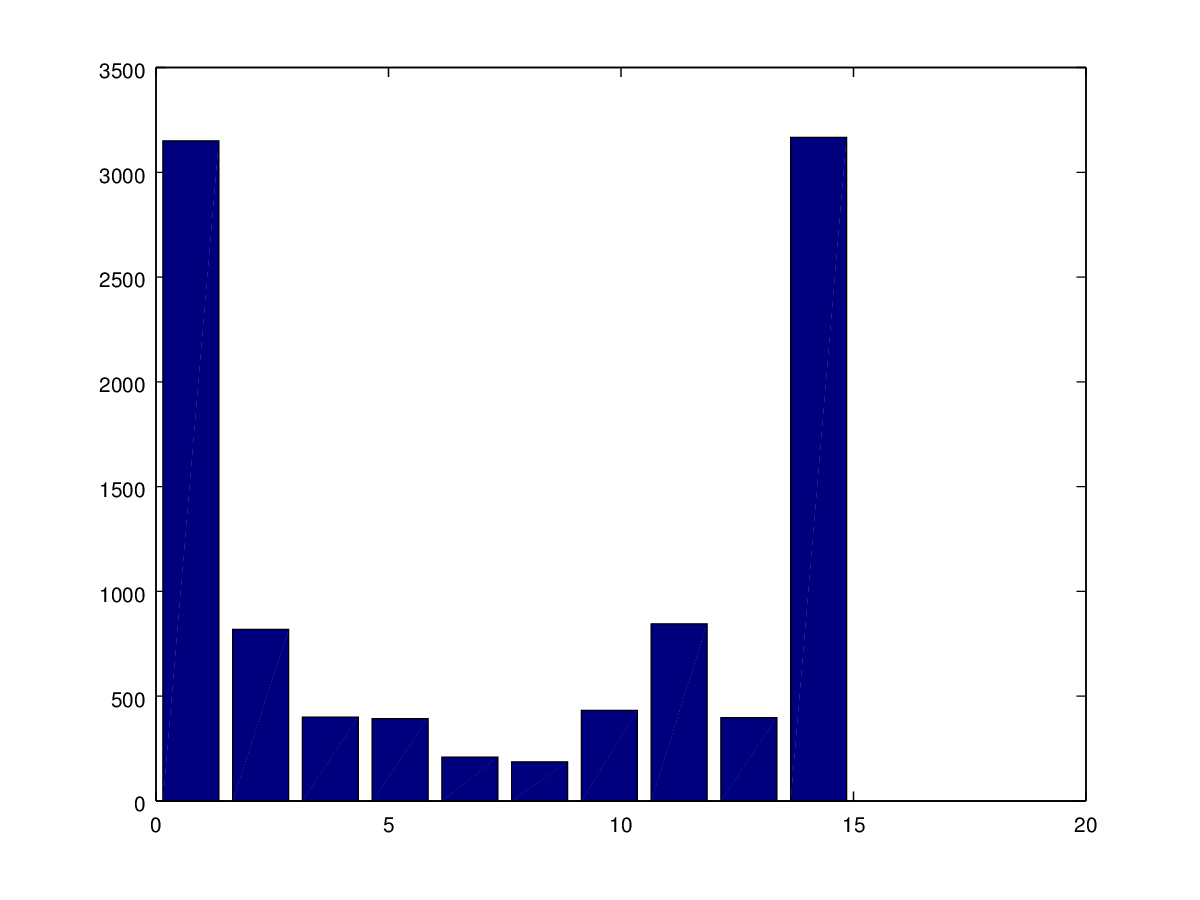
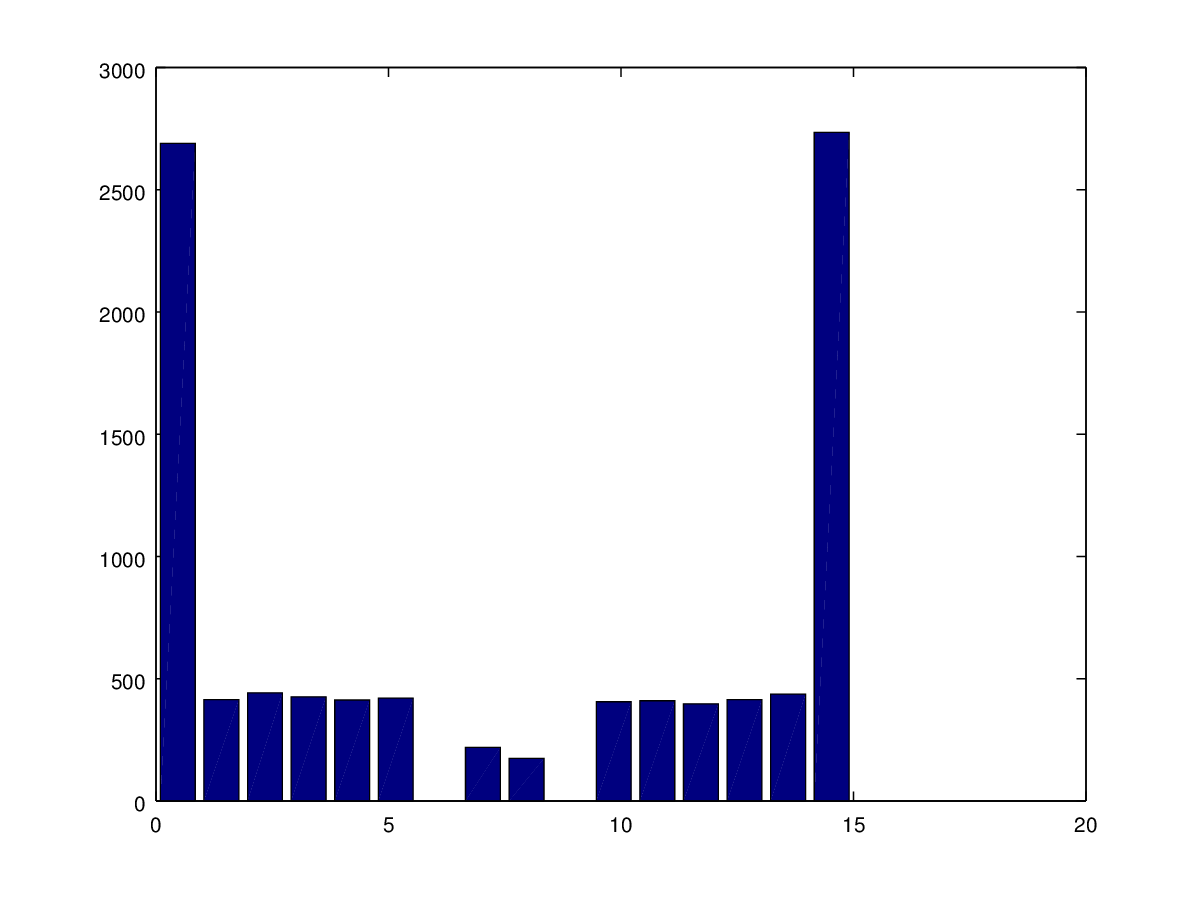
Added latex

Changed region(s): [[0.0617, 0.1244, 0.7092, 0.9022]]

diff --git a/zettel08/latex/zettel.tex b/zettel08/latex/zettel.tex
@@ -1,0 +1,173 @@
+\documentclass[a4paper,10pt]{article}
+\usepackage[utf8]{inputenc}
+\usepackage{amsmath}
+\usepackage{amssymb}
+\usepackage{graphicx}
+%für quellcode
+\usepackage{listings} 
+
+\newcommand{\image}[3]{\begin{figure}[h]
+                            \includegraphics[#1]{#3}
+                            \caption{#2}
+                       \end{figure}
+                       }
+
+\lstset{
+    language = octave
+}
+%begin{lstlisting}
+
+\begin{document}
+%########################################
+%		Titel
+%########################################
+\begin{center}
+    \section*{Mustererkennung 8.Übungszettel}
+     \today
+\end{center}
+$ $
+\newline
+\begin{tabular}{r|l l}
+    Name & Alexander Hinze-Hüttl & Kevin Pandura\\
+    Matrikelnummer & 4578322 & 4562742\\
+\end{tabular}
+\newline
+$ $
+\newline
+\newline
+%########################################
+%		Ende
+%########################################
+
+\section*{Aufgabe 1}
+\subsection*{a}
+	\texttt{
+0.3,0.5,0.4 -> f15 (Tautologie) \\
+-0.8, -0.6, 0.5 -> f1 (AND)\\
+0.7,0.6,-1 -> f8 (NOR)}\\
+\\
+\textbf{Code:}\\
+	\begin{lstlisting}
+0;
+function e = exec1(w1,w2,w3,t1,t2)
+  if ((w1*t1 + w2*t2 + w3) >= 0)
+     e = 1;
+   else
+     e = 0;
+   endif
+endfunction
+
+function f = getBoolFunc(w1,w2,w3)
+  e1 = exec1(w1,w2,w3,0,0);
+  e2 = exec1(w1,w2,w3,0,1);
+  e3 = exec1(w1,w2,w3,1,0);
+  e4 = exec1(w1,w2,w3,1,1);
+  
+  f = e1*2^0 + e2*2^1 + e3*2^2 + e4*2^3;
+endfunction
+
+f1 = getBoolFunc(0.3,0.5,0.4);
+f2 = getBoolFunc(-0.8,-0.6,0.5);
+f3 = getBoolFunc(0.7,0.6,-1);
+
+fprintf("[0.3,0.5,0.4] -> f%d\n", f1);
+fprintf("[-0.8, -0.6, 0.5] -> f%d\n", f2);
+fprintf("[0.7,0.6,-1] -> f%d\n", f3);
+	\end{lstlisting}
+\subsection*{b}
+	\includegraphics[scale=0.5]{sphere_1.png}\\
+	\includegraphics[scale=0.5]{sphere.png}
+	\textbf{Code:}\\
+	\begin{lstlisting}
+0;
+points = zeros(10000,3);
+[h,w] = size(points);
+
+for i = 1:h
+  points(i,:) = -1 + (2)*rand(1,3);
+  points(i,:) = points(i,:)/norm(points(i,:));
+  scatter3(points(i,1),points(i,2),points(i,3)); hold on;
+endfor
+sphere;
+	\end{lstlisting}
+\subsection*{c}
+	\includegraphics[scale=0.5]{boolfunctions.png}\\
+	\textbf{Code:}\\
+	\begin{lstlisting}
+
+n = 10000;
+rndweights = zeros(n,3);
+functions = zeros(n,1);
+[h,w] = size(rndweights);
+
+for i = 1:h
+  rndweights(i,:) = -1 + 2*rand(1,3);
+endfor
+
+for i = 1:h
+  w1 = rndweights(i,1);
+  w2 = rndweights(i,2);
+  w3 = rndweights(i,3);
+  f = getBoolFunc(w1,w2,w3); ... Funktione aus 1a
+  functions(i,1) = f;
+endfor
+hist(functions,16);
+	\end{lstlisting}
+\subsection*{d}
+	\includegraphics[scale=0.5]{boolfunctions2.png}\\
+	\texttt{
+f8 min 568\\
+f10 max 918
+	}\\
+	$\frac{918}{568} = 1.616197$\\
+	\\
+	\textbf{Code:}
+	\begin{lstlisting}
+0;
+function e = exec1(w1,w2,w3,t1,t2)
+  if ((w1*t1 + w2*t2 + w3) >= 0)
+     e = 1;
+   else
+     e = 0;
+   endif
+endfunction
+
+function f = getBoolFunc(w1,w2,w3)
+  e1 = exec1(w1,w2,w3,-1,-1);
+  e2 = exec1(w1,w2,w3,-1,1);
+  e3 = exec1(w1,w2,w3,1,-1);
+  e4 = exec1(w1,w2,w3,1,1);
+  
+  f = e1*2^0 + e2*2^1 + e3*2^2 + e4*2^3;
+endfunction
+
+n = 10000;
+rndweights = zeros(n,3);
+ff = zeros(16,1);
+functions = zeros(n,1);
+[h,w] = size(rndweights);
+
+for i = 1:h
+  rndweights(i,:) = -1 + 2*rand(1,3);
+endfor
+
+for i = 1:h
+  w1 = rndweights(i,1);
+  w2 = rndweights(i,2);
+  w3 = rndweights(i,3);
+  f = getBoolFunc(w1,w2,w3);
+  functions(i,1) = f;
+  ff(f+1,1) += 1;
+endfor
+
+hist(functions,16);
+m = max(ff);
+for i = 1:16
+  if ff(i,1) < m && ff(i,1) > 0
+    m = ff(i,1);
+  endif
+endfor
+ff
+fprintf("min %d  max %d\n",m,max(ff));
+	\end{lstlisting}
+\end{document}

diff --git a/zettel08/aufg1d.m b/zettel08/aufg1d.m
@@ -18,6 +18,7 @@ endfunction
 
 n = 10000;
 rndweights = zeros(n,3);
+ff = zeros(16,1);
 functions = zeros(n,1);
 [h,w] = size(rndweights);
 
@@ -31,6 +32,15 @@ for i = 1:h
   w3 = rndweights(i,3);
   f = getBoolFunc(w1,w2,w3);
   functions(i,1) = f;
+  ff(f+1,1) += 1;
 endfor
 
-hist(functions);
+hist(functions,16);
+m = max(ff);
+for i = 1:16
+  if ff(i,1) < m && ff(i,1) > 0
+    m = ff(i,1);
+  endif
+endfor
+ff
+fprintf("min %d  max %d\n",m,max(ff));

diff --git a/zettel08/aufg1c.m b/zettel08/aufg1c.m
@@ -32,5 +32,4 @@ for i = 1:h
   f = getBoolFunc(w1,w2,w3);
   functions(i,1) = f;
 endfor
-
-hist(functions);
+hist(functions,16);
